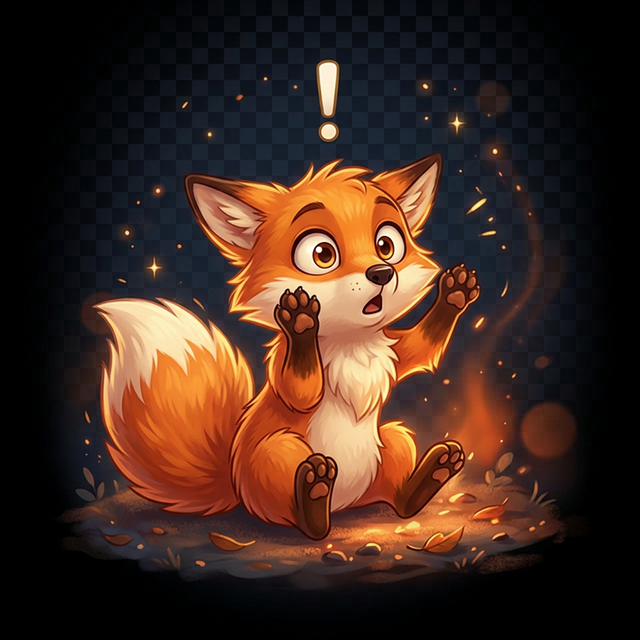
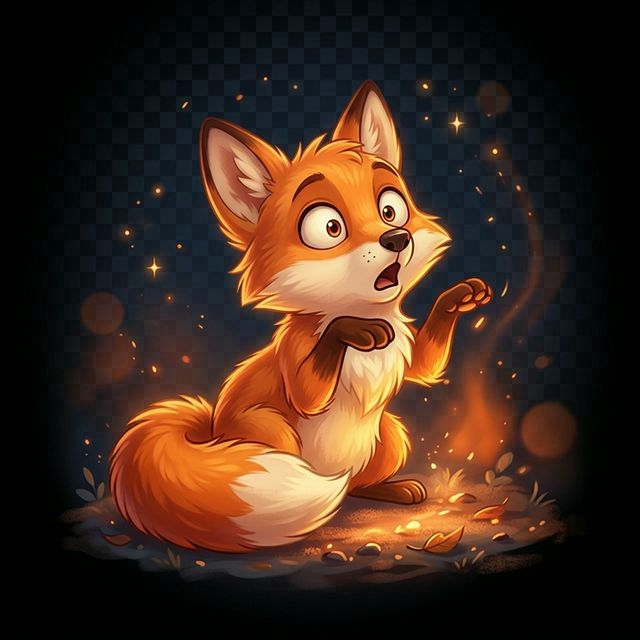
Add 30 pose variants for all 6 companions, fix mascot CSS (remove glow, add mask)

Changed region(s): [[0.125, 0.0938, 0.7812, 0.875], [0.7188, 0.3125, 0.7812, 0.375]]

diff --git a/dashboard/app/pipeline/page.tsx b/dashboard/app/pipeline/page.tsx
@@ -539,10 +539,11 @@ const pageCSS = `
   }
   .fp-mascot-large {
     width: 140px; height: 140px; object-fit: contain;
-    filter: drop-shadow(0 0 30px rgba(245,158,11,0.25));
     animation: fpBob 4s ease-in-out infinite;
     transition: opacity 0.5s;
-    mix-blend-mode: lighten;
+    mix-blend-mode: screen;
+    mask-image: radial-gradient(ellipse 70% 70% at center, black 40%, transparent 72%);
+    -webkit-mask-image: radial-gradient(ellipse 70% 70% at center, black 40%, transparent 72%);
   }
   @keyframes fpBob { 0%,100% { transform: translateY(0); } 50% { transform: translateY(-8px); } }
 
@@ -695,9 +696,10 @@ const pageCSS = `
   }
   .fp-forge-mascot-img {
     width: 100px; height: 100px; object-fit: contain;
-    filter: drop-shadow(0 0 20px rgba(245,158,11,0.3));
     animation: fpBob 3.5s ease-in-out infinite;
-    mix-blend-mode: lighten;
+    mix-blend-mode: screen;
+    mask-image: radial-gradient(ellipse 70% 70% at center, black 40%, transparent 72%);
+    -webkit-mask-image: radial-gradient(ellipse 70% 70% at center, black 40%, transparent 72%);
   }
 
   /* Companion speech strip */

diff --git a/dashboard/app/page.tsx b/dashboard/app/page.tsx
@@ -509,9 +509,8 @@ const pageCSS = `
     position: absolute; bottom: 10px; left: 10px;
     width: 150px; height: 150px; object-fit: contain;
     mix-blend-mode: screen;
-    -webkit-mask-image: radial-gradient(circle, white 35%, transparent 65%);
-    mask-image: radial-gradient(circle, white 35%, transparent 65%);
-    filter: drop-shadow(0 0 25px rgba(245,158,11,0.35));
+    -webkit-mask-image: radial-gradient(ellipse 70% 70% at center, white 40%, transparent 72%);
+    mask-image: radial-gradient(ellipse 70% 70% at center, white 40%, transparent 72%);
     animation: fsFoxBob 4s ease-in-out infinite;
   }
   @keyframes fsFoxBob { 0%, 100% { transform: translateY(0); } 50% { transform: translateY(-5px); } }
